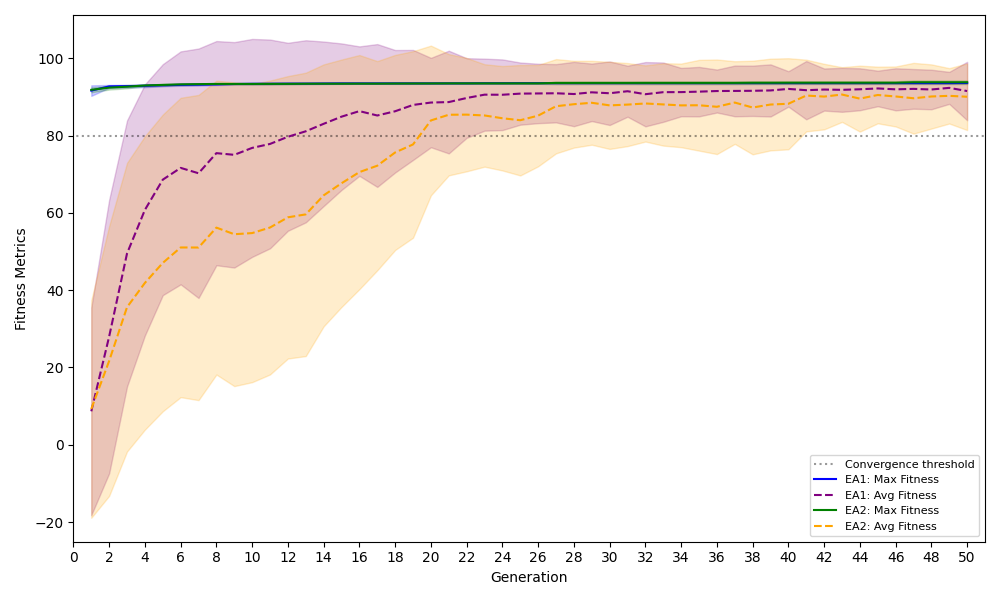
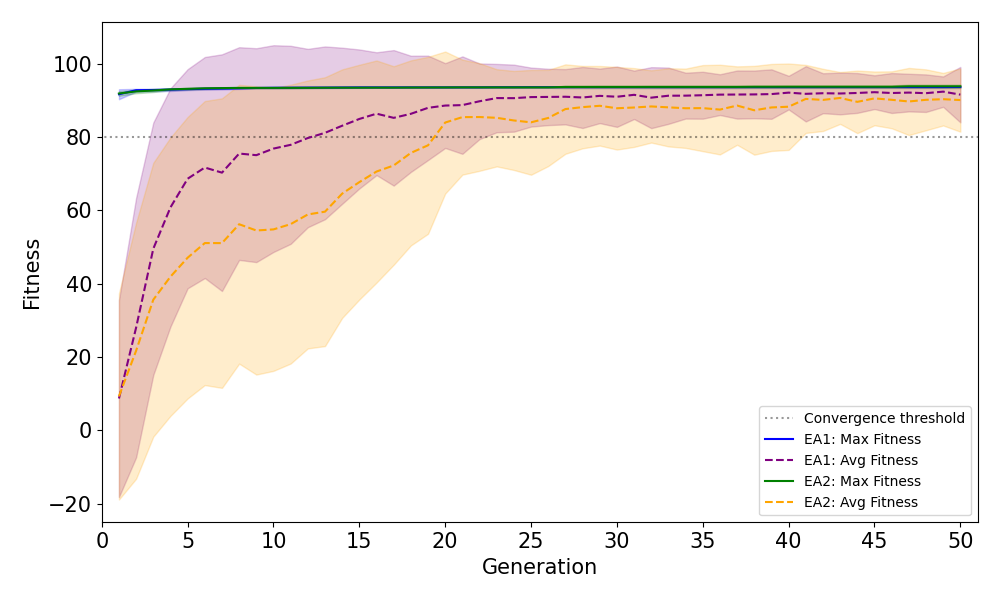
Increased font size

diff --git a/Make_graph.py b/Make_graph.py
@@ -4,7 +4,7 @@ import matplotlib.pyplot as plt
 
 # Load data from logs
 dir_name = 'optimization_test'
-enemy_number = '8'
+enemy_number = '2'
 data_2px = np.load('cx_' + enemy_number + '/logs1.npz')
 data_blendx = np.load('blend_' + enemy_number + '/logs1.npz')
 
@@ -13,7 +13,7 @@ data_blendx = np.load('blend_' + enemy_number + '/logs1.npz')
 generations = np.arange(1, len(data_2px['max_fitness']) + 1)
 
 plt.figure(figsize=(10, 6))
-plt.rcParams.update({'font.size': 10})
+plt.rcParams.update({'font.size': 15})
 
 # Plot convergence threshold line at fitness = 80
 plt.plot([-5, max(generations)+5], [80, 80], 'k:', alpha=0.4, label='Convergence threshold')
@@ -42,11 +42,11 @@ plt.fill_between(generations, data_blendx['avg_fitness'] - data_blendx['std_avg_
 plt.xlabel('Generation')
 plt.ylabel('Fitness')
 # plt.title('Comparison of Fitness Metrics with Shaded Standard Deviation for EA1 and EA2')
-plt.legend(loc='best', fontsize=8)
+plt.legend(loc='best', fontsize=10)
 
 # Edit x-limits and ticks
 plt.xlim((0, max(generations)+1))
-plt.xticks(np.arange(0, max(generations)+1, step=2))
+plt.xticks(np.arange(0, max(generations)+1, step=5))
 
 plt.tight_layout()
 plt.show()
